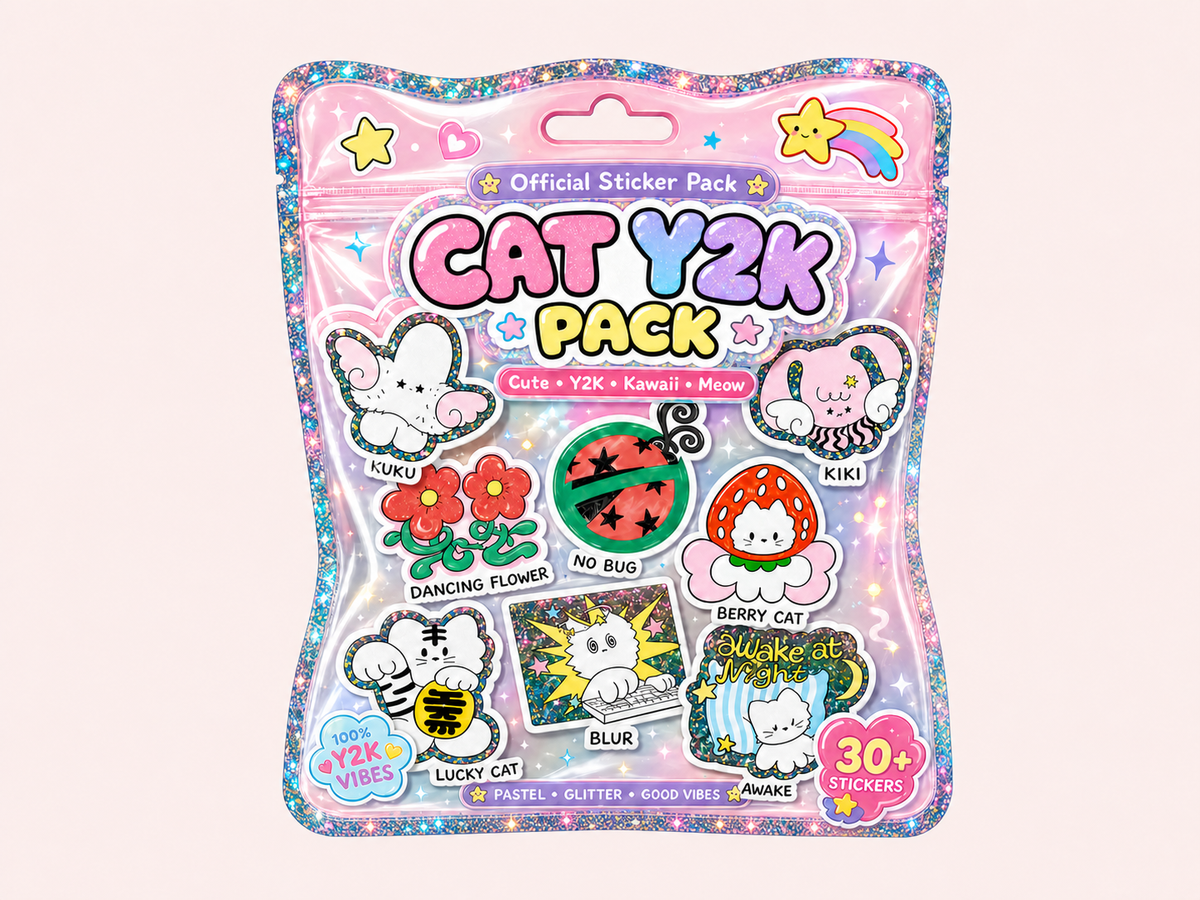
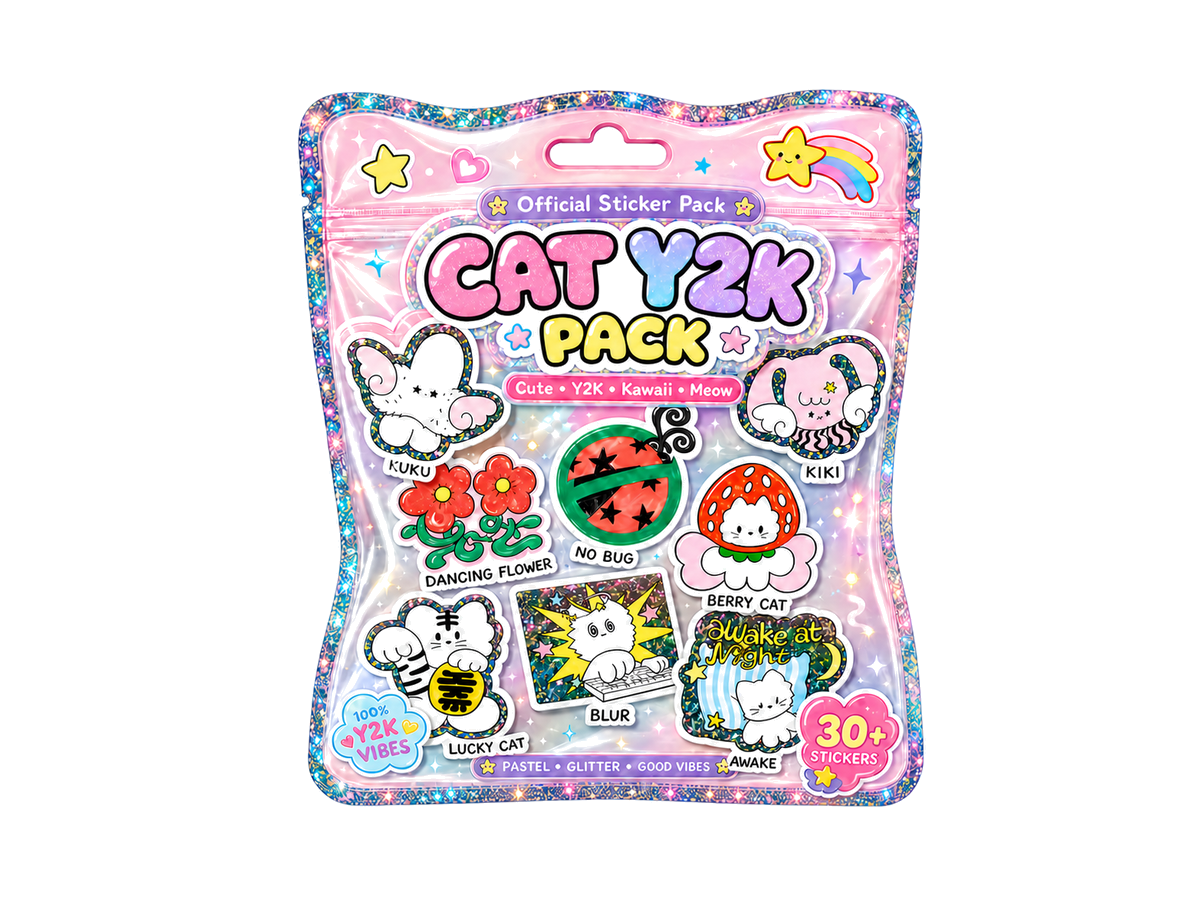
standardize official sticker pack covers

diff --git a/service-worker.js b/service-worker.js
@@ -1,4 +1,4 @@
-const CACHE_NAME = "moments-journal-v35";
+const CACHE_NAME = "moments-journal-v36";
 const APP_SHELL = [
   "./",
   "index.html",

diff --git a/sticker-packs.js b/sticker-packs.js
@@ -56,7 +56,7 @@ const catY2KPackStickers = createStickerItems(
 );
 
 // Official sticker pack cover spec:
-// 1200x900, 4:3, safe area 80px, object-fit contain.
+// 1200x900, 4:3, pure white background, safe area 80px, object-fit contain.
 /** @type {StickerPack[]} */
 const officialStickerPacks = [
   createOfficialStickerPack(

diff --git a/styles.css b/styles.css
@@ -1795,7 +1795,7 @@ img.no-ios-callout,
   aspect-ratio: 4 / 3;
   min-height: 0;
   overflow: hidden;
-  background: #f2f0ec;
+  background: #ffffff;
 }
 
 .official-pack-package-visual img {

diff --git a/docs/sticker-pack-template.md b/docs/sticker-pack-template.md
@@ -1,0 +1,66 @@
+# Official Sticker Pack Template
+
+This document defines the long-term presentation standard for every official sticker pack.
+
+## Cover asset
+
+- Canvas: **1200 × 900 px**
+- Aspect ratio: **4:3 landscape**
+- Format: PNG
+- Filename: `package.png` (preferred) or `cover.png`
+- Background: solid white `#FFFFFF`
+- Safe area: at least **80 px** on every edge
+- Package placement: centered and fully visible
+- Recommended package width: 85%–92% of the canvas when its proportions allow it
+- Do not crop, stretch, rotate, or push the package against an edge
+- Do not use black, tinted, gradient, photographic, or scene backgrounds
+
+The cover contains only the package artwork. Pack title, description, and sticker count below the cover are rendered by the app. Text that is physically part of the package artwork may remain in the package image.
+
+## App rendering
+
+The app uses one shared rule for all official packs:
+
+```css
+aspect-ratio: 4 / 3;
+object-fit: contain;
+object-position: center;
+```
+
+The metadata area is fixed at 50 px and must not depend on the source image dimensions.
+
+## Naming and folders
+
+Use lowercase kebab-case for pack and sticker IDs:
+
+```text
+assets/sticker-packs/<pack-id>/
+├── package.png
+├── sticker-01.png
+├── sticker-02.png
+└── ...
+```
+
+Sticker images should be transparent PNG files. Every sticker needs a stable, unique `id`, a human-readable `name`, and its asset path.
+
+## Adding a pack
+
+1. Create `assets/sticker-packs/<pack-id>/`.
+2. Export a 1200 × 900 `package.png` using the cover rules above.
+3. Add the transparent sticker PNG files.
+4. Add one `createOfficialStickerPack(...)` entry in `sticker-packs.js`.
+5. Verify the package card, detail grid, and canvas insertion.
+6. Add the package cover to the app-shell cache in `service-worker.js` and bump the cache version.
+
+No page component changes should be required.
+
+## Release checklist
+
+- Cover is exactly 1200 × 900
+- Background is solid white
+- Complete package is visible with safe margins
+- No metadata bar is baked into the cover
+- Title, subtitle, and count align with existing cards
+- Detail stickers match the package contents
+- Clicking a sticker inserts it into the canvas
+- `npm run build` passes